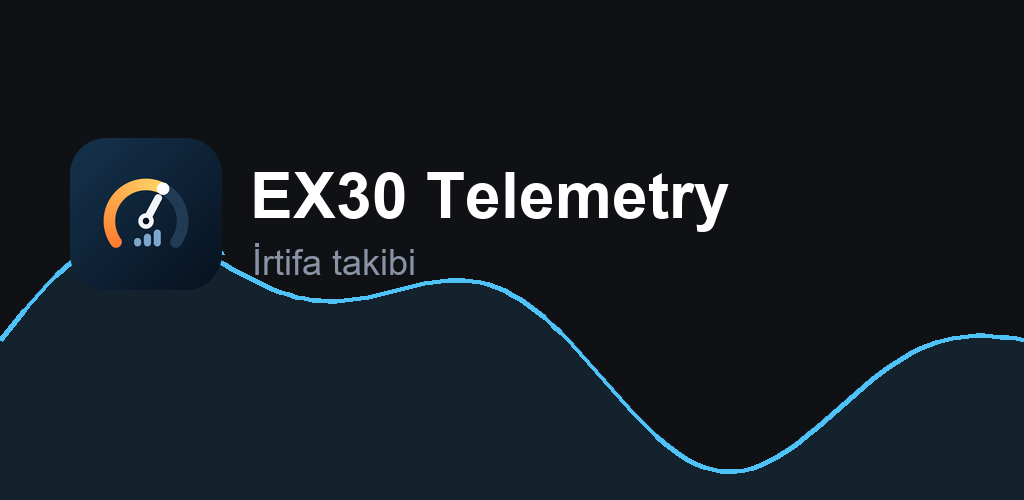
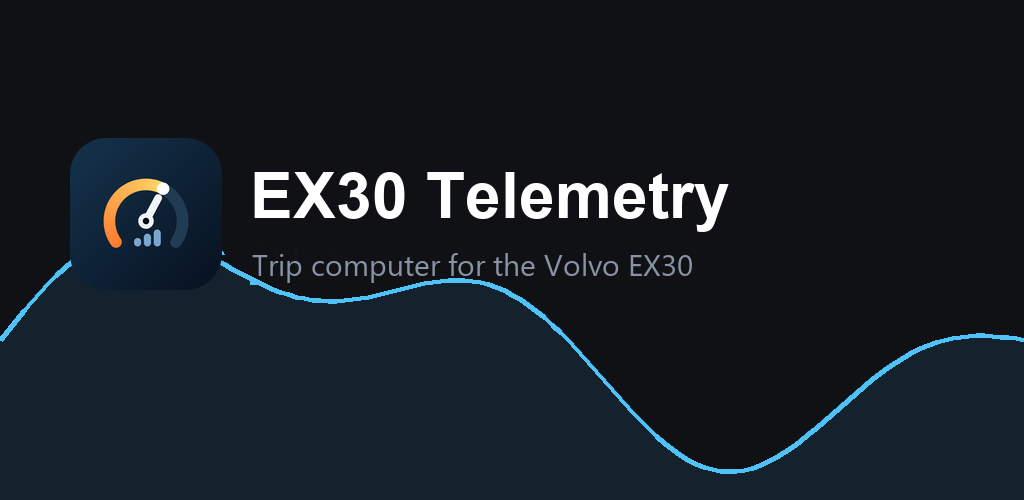
Update screenshots to the current build
Replace the outdated altitude-only screenshots with the current live
screen (light and dark), trip history, records and vehicle data, in
English and Turkish. Refresh the feature graphic subtitle and align
the README feature list with what the live screen shows.

Changed region(s): [[0.25, 0.48, 0.6875, 0.57]]

diff --git a/README.tr.md b/README.tr.md
@@ -13,22 +13,29 @@ verilerini gösterir.
 > Bkz. [Sorumluluk reddi](#sorumluluk-reddi).
 
 <p>
-  <img src="play-assets/screenshot-1.png" width="260" alt="Canlı irtifa grafiği, dikey">
-  <img src="play-assets/screenshot-land-1.png" width="420" alt="Canlı irtifa grafiği, yatay">
+  <img src="screenshots/tr-live.png" width="270" alt="Canlı ekran, açık tema">
+  <img src="screenshots/tr-live-dark.png" width="270" alt="Canlı ekran, koyu tema">
+</p>
+<p>
+  <img src="screenshots/tr-trips.png" width="270" alt="Yolculuk geçmişi">
+  <img src="screenshots/tr-records.png" width="270" alt="Rekorlar">
+  <img src="screenshots/tr-vehicle-data.png" width="270" alt="Araç verileri / tanılama">
 </p>
 
-<sub>Ekran görüntüleri erken bir sürümden (irtifa görünümü), AAOS emülatöründe
-alındı. Güncel sürümün canlı ekranında daha fazla panel var.</sub>
+<sub>Canlı ekran (açık ve koyu tema), yolculuk geçmişi, rekorlar ve araç verileri.
+AAOS emülatöründe, debug derlemesinin sentetik demo verisiyle alındı.</sub>
 
 ## Özellikler
 
 **Canlı ekran** (navigasyon yüzeyine çizilir, sürüş sırasında ekranda kalır)
 
-- Son **10 / 20 / 50 km**'lik kayan pencerede irtifa ve hız grafikleri
-- Aynı pencere ve yolculuğun tamamı için tüketim (kWh/100 km)
-- Harcanan ve geri kazanılan (rejen) enerji, tırmanışa giden enerji, dış
-  sıcaklık, mesafe, süre, ortalama / azami hız
-- Aracın gece moduna uyan otomatik açık / koyu tema
+- Son **10 / 20 / 50 km**'lik kayan pencerede tüketim (kWh/100 km), yanında
+  yolculuğun tamamının ortalaması
+- Aynı pencerede irtifa grafiği: en yüksek / en alçak nokta, toplam tırmanış /
+  iniş, tırmanışa giden ve geri kazanılan (rejen) enerji
+- Azami değerli hız grafiği; pencere ve yolculuk ortalama hızı yan yana
+- Yeni bir performans rekoru kırıldığında şerit
+- Aracın gece moduna uyan (ya da elle sabitlenebilen) açık / koyu tema
 
 **Otomatik yolculuk kaydı**
 
@@ -144,7 +151,8 @@ automotive/src/main/java/.../
   loc/      konum + ön plan servisi
   debug/    yalnızca debug kancaları ve demo verisi
 drive-sync/ isteğe bağlı Google Apps Script ucu (Kod.gs)
-play-assets/ simge, tanıtım görseli, ekran görüntüleri
+play-assets/ simge ve tanıtım görseli
+screenshots/ README görselleri (en-*, tr-*)
 ```
 
 Kod yorumları çoğunlukla Türkçedir. Bazı yorumlar bu depoda bulunmayan dahili

diff --git a/README.md b/README.md
@@ -12,22 +12,29 @@ the stock UI does not expose.
 > here only to describe compatibility. See [Disclaimer](#disclaimer).
 
 <p>
-  <img src="play-assets/screenshot-1.png" width="260" alt="Live altitude chart, portrait">
-  <img src="play-assets/screenshot-land-1.png" width="420" alt="Live altitude chart, landscape">
+  <img src="screenshots/en-live.png" width="270" alt="Live screen, light theme">
+  <img src="screenshots/en-live-dark.png" width="270" alt="Live screen, dark theme">
+</p>
+<p>
+  <img src="screenshots/en-trips.png" width="270" alt="Trip history">
+  <img src="screenshots/en-records.png" width="270" alt="Records">
+  <img src="screenshots/en-vehicle-data.png" width="270" alt="Vehicle data / diagnostics">
 </p>
 
-<sub>Screenshots are from an early build (altitude view) taken on the AAOS emulator.
-The current build shows more panels on the live screen.</sub>
+<sub>Live screen (light and dark theme), trip history, records and vehicle data.
+Taken on the AAOS emulator with the debug build's synthetic demo data.</sub>
 
 ## Features
 
 **Live screen** (drawn on the navigation surface, stays visible while driving)
 
-- Altitude and speed charts over a sliding window of the last **10 / 20 / 50 km**
-- Consumption (kWh/100 km) for the same window and for the whole trip
-- Energy used vs. regenerated, energy spent on climbs, outside temperature,
-  distance, duration, average / max speed
-- Automatic light / dark theme that follows the car's night mode
+- Consumption (kWh/100 km) over a sliding window of the last **10 / 20 / 50 km**,
+  next to the whole-trip average
+- Altitude chart for the same window with highest / lowest point, total
+  climb / descent, energy spent climbing and energy regenerated
+- Speed chart with maximum, and average speed for the window vs. the whole trip
+- A banner when a new performance record is set
+- Light / dark theme that follows the car's night mode (or can be fixed by hand)
 
 **Automatic trip recording**
 
@@ -144,7 +151,8 @@ automotive/src/main/java/.../
   loc/      location + foreground service
   debug/    debug-only hooks and demo data
 drive-sync/ optional Google Apps Script endpoint (Kod.gs)
-play-assets/ icon, feature graphic, screenshots
+play-assets/ icon and feature graphic
+screenshots/ README images (en-*, tr-*)
 ```
 
 Code comments are mostly in Turkish. Some comments refer to internal
